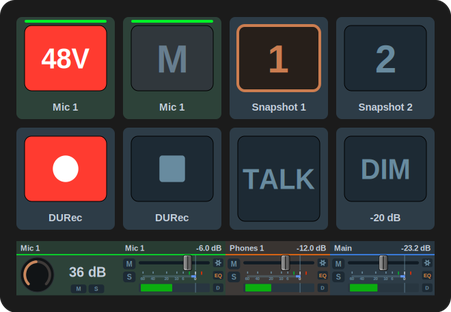
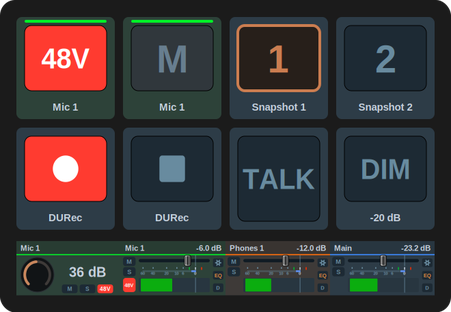
v5.4.0

Changed region(s): [[0.1242, 0.8077, 0.4656, 0.9519], [0.4967, 0.8077, 0.6829, 0.9231], [0.745, 0.8077, 0.9313, 0.9231]]

diff --git a/docs/global-osc/volume.md b/docs/global-osc/volume.md
@@ -33,6 +33,14 @@ Main Out and Speaker B press to mute (fader to −∞) and touch to dim. A Phone
 
 In TotalMix an input strip's fader is its send into the submix currently selected in the window, so over Global OSC these levels live on the mix matrix, one per output. A *Channel fader* on an input or playback channel therefore has a *Submix* picker. *Main Out (auto)* follows the Main Out assignment. *Control room monitor (auto)* also follows the Speaker B switch. Or pin any output's submix. The fader you see in the TotalMix window only moves while that submix is selected there; the audio changes either way. Output channels have one real fader and no picker.
 
+#### Seeing which submix a control is on
+
+With the submix automatic, or with several dials on the same channel into different submixes, the strip alone does not say where a fader goes. Two options show it, both for input and playback controls only, since an output is a submix rather than feeding one.
+
+*Show the submix (3 s)* is a gesture: on a dial under *On press* and *On touch*, on a key under *Key press* and *Hold the key*. It replaces the strip's body with the name of the output the control feeds, marked in that output's TotalMix colour, while the header keeps the channel name and the readout. It goes away after 3 seconds or on the next press. A second press of the same gesture only takes it down; any other press, touch, hold or turn of the dial takes it down and then does what it normally does, so nothing is swallowed. It writes nothing to TotalMix. With the icon look the dial's text fields, or the key's title, name the submix for the same 3 seconds.
+
+*Submix label* keeps the name on a dial's fader strip permanently. *Below the name* adds a second header line: both names stay whole and the readout keeps its size, and in exchange the body is 12 px shorter, so the pills, lamps and meter are flatter while the fader keeps its full travel. *Beside the name* writes "Mic 1 › Main" on the one header line and leaves the body alone; the pair shares the name's width, so longer names shrink to a 10 px font and the submix is cut first ("Chat<-Loop › Win -…"). Off by default. Keys have no label, because their header has room for the name only; use the gesture there. A *Submix send* target, whose name normally reads "source → output", shows the source alone while the label is on.
+
 *Submix linked to OSC Controller* in TotalMix's Options menu (RME's protocol notes call it "Follow Submix") should be off for the Global OSC Remote Controller: left on, a controller restricted to one submix holds the TotalMix window on that submix. TotalMix FX 2.1 beta 6 and later ignore the option for a Global OSC controller.
 
 ### Channels
@@ -63,13 +71,15 @@ With the [TotalMix look](../appearance.md) a level draws a fader strip with mete
 
 Playback channels have the gear alone. The lamps are read-only, so a key that only needs to *see* EQ and dynamics state no longer needs a Toggle key each.
 
-Output strips carry a fourth lamp, **REQ**, lit while that output's Room EQ is on. TotalMix does not draw one; the section's state is otherwise only visible inside the settings panel.
+Output strips also show Room EQ: an orange **REQ** tag in the header while that output's Room EQ is on, and nothing while it is off. On a display it sits in the middle, between the name at the left and the readout at the right; on a key, where the header holds only the name, it sits left of it. TotalMix does not draw one; the section's state is otherwise only visible inside the settings panel. The tag belongs to the FX lamps and goes with them when they are switched off.
 
 *Mute look* (fader targets only; gain and pan knobs have no mute treatment) decides how a cut strip is drawn: *Subtle* lights the M pill blue, as TotalMix does. *Red badge* lights the same pill red. *Red badge and cross* adds a red cross over the strip. *Red badge and cast* adds a translucent red below the header band instead. *Red cast and cross* has both.
 
 A submix send has no mute in Global OSC, so a send at the bottom of its throw counts as cut too: the pill reads `-oo` and takes whichever treatment is set. Every step can be chosen per button, or for new buttons under *Defaults for new buttons*.
 
 *Mute / Solo* draws the M and S pills. Both are on by default, and either one switched off hands its room to the fader: on a display the travel grows towards that edge, on a key the strip grows into the space the pills held. Without the pills the strip shows no mute or solo state at all.
+
+*48V / Inst* draws a **48V** and an **INST** pill for a channel fader, input gain or pan that points at an input with those switches: under M and S on a display, beside them on a key, and as extra badges under a knob. 48V is red while phantom power is on, INST blue while the instrument (Hi-Z) input is on, the colours of the matching Toggle keys; both are unlit while off. TotalMix only reports a switch for inputs that have it (on a Fireface UCX II, 48V on inputs 1 and 2 and Inst on 3 and 4), so every other channel shows no pill at all and nothing has to be configured per interface. The *48V / Inst* checkbox itself only appears in the settings panel while the selected channel has one of the switches; that needs a connection to TotalMix, and it shows up a moment after a channel is picked. On a display the pills sit in the M/S column: one pill takes the slot level with the meter, and on an input with both switches the four pills share the column at a smaller size. With *Mute / Solo* switched off the column stays for the pills alone; switch both off to give the fader the full width. The pills are read-only: assign *Phantom power (48V)* to *On press* or *On touch* to switch 48V from the same dial, or use a Toggle key for either.
 
 ## Notes
 

diff --git a/docs/appearance.md b/docs/appearance.md
@@ -10,7 +10,7 @@ Keys and Stream Deck+ displays are drawn by the plugin on every change, in colou
 
 ![Strip anatomy](images/v5_strip_anatomy.png)
 
-**Fader strips** for levels: channel name, M and S pills, the meter, RME's scale with 0 dB marked and the +3 and −3 ticks coloured as in the mixer, the cap on the real fader curve, and the readout in dB. *Meter*, *FX lamps* and *Mute / Solo* each switch off their own column, and the fader takes the room they leave. The classic Levels action draws no meter, because that protocol only reports levels for the visible bank.
+**Fader strips** for levels: channel name, M and S pills, 48V and INST pills on inputs that have those switches (Global OSC), the meter, RME's scale with 0 dB marked and the +3 and −3 ticks coloured as in the mixer, the cap on the real fader curve, and the readout in dB, signed from ±0.1 dB and unsigned at 0.0 dB. *Meter*, *FX lamps* and *Mute / Solo* each switch off their own column, and the fader takes the room they leave. The classic Levels action draws no meter, because that protocol only reports levels for the visible bank.
 
 **Knobs** for preamp gain, pan and effect parameters, drawn like TotalMix's: a dark disc with the arc on its edge, orange by default, yellow on a pan knob's left half, and the section's colour for EQ bands, dynamics and low cut. **Dropdown boxes** for list parameters. **Buttons** for toggles and triggers: mute and solo keys take TotalMix's M/S look, letter and outline in the state colour on a dark face; snapshot keys its active-snapshot look, orange number and outline; otherwise blue for mute-type switches, orange for solo, PFL and talkback, red for 48V and record, orange text for the effect sections. **Panels** for the Display action, including the EQ and dynamics curves and the gain-reduction needle.
 
@@ -24,7 +24,7 @@ Peak level with a hold line, held for the *Peak hold* time (TotalMix's 2 s by de
 
 ![Meters](images/v5_meters.png)
 
-On a Stream Deck+ display the meter shares the fader's own range and dB mapping, so a level reads directly against the scale below the fader. M and S stack in a column at the left, the FX lamps at the right.
+On a Stream Deck+ display the meter shares the fader's own range and dB mapping, so a level reads directly against the scale below the fader. M and S stack in a column at the left, with 48V and INST under them on inputs that have those switches; the FX lamps sit at the right.
 
 ### Channel colours
 

diff --git a/docs/global-osc/display.md b/docs/global-osc/display.md
@@ -21,7 +21,7 @@ Read-only status over Global OSC, on a key or a dial. Nothing is written; a pres
 | Dynamics values | The same section as numbers: thresholds, ratios, make-up gain, attack and release | Bus, Channel |
 | Dynamics gain reduction | A needle meter of the section's gain reduction, 0 dB at the right stop to 20 dB at the left, with the value beneath | Bus, Channel, *Send Level Messages* |
 
-The level view carries the same *FX lamps* and *Mute / Solo* checkboxes as a [Volume strip](volume.md), for the channel it meters, and both are on by default. The S pill here is the channel's PFL state, not the mix-node solo a Volume strip shows. On a key the two pills pair up on one row when the lamps share the column with them, and with both switched off the meter itself widens into the space; on a Stream Deck+ display the meter takes back whichever column is off.
+The level view carries the same *FX lamps* and *Mute / Solo* checkboxes as a [Volume strip](volume.md), for the channel it meters, and both are on by default. The S pill here is the channel's PFL state, not the mix-node solo a Volume strip shows. On an input with a 48V or Inst switch it also shows the Volume strip's **48V** and **INST** pills, red and blue while on, unlit while off, and absent on every other channel; the *48V / Inst* checkbox that switches them off only appears for such a channel. On a Stream Deck+ display they sit under S in the left column. On a key they sit at the ends of the readout band, 48V left and INST right, because the right-hand column is already full with M, S and the lamps. On a key the two pills pair up on one row when the lamps share the column with them, and with both switched off the meter itself widens into the space; on a Stream Deck+ display the meter takes back whichever column is off.
 
 Status data arrives about once a second from TotalMix. Views carrying a level, meaning the meter, the dynamics curve and the gain-reduction needle, repaint at most ten times a second.
 

diff --git a/docs/dials-and-gestures.md b/docs/dials-and-gestures.md
@@ -20,7 +20,9 @@ Every level or parameter action also works on a regular key. Under *Key press* (
 
 *Next channel* and *Previous channel* are both a key press mode and a dial press or touch gesture. They step the button along a list of channels set under *Advanced: channel cycling*, so four dials can cover sixteen channels. Name a group there and every button using that name steps together, which turns a row of dials into one channel strip. Without a group the channel is stored on the button, so it comes back where you left it. On a dial the target has to be Channel, Input gain or Pan; Main Out and the other control-room targets have no channel to step, so the gesture is not offered there.
 
-*Alt function* swaps the dial to a second target (Channel level, Input gain or Pan) on the same channel; the same gesture swaps back. The alternate behaves as the dedicated button would and is named on the knob caption or the strip header. Not saved: a page change, an edit or a restart returns the dial to its own target.
+*Alt function* swaps the dial to a second target (Channel level, Input gain or Pan) on the same channel; the same gesture swaps back. The alternate behaves as the dedicated button would; a gain or pan alternate is named in the knob's caption. Not saved: a page change, an edit or a restart returns the dial to its own target.
+
+*Show the submix (3 s)* (Global OSC, input and playback controls) names the submix the control feeds for 3 seconds or until the next press, and writes nothing; see [Volume (TotalMix 2.1+)](global-osc/volume.md#seeing-which-submix-a-control-is-on).
 
 On Input gain, *Set to −∞* drops the preamp to 0 dB and a second press restores it. The ceiling comes from the detected interface.
 

diff --git a/docs/changelog.md b/docs/changelog.md
@@ -2,7 +2,25 @@
 
 # Changelog
 
-## [5.3.2] - 2026-09-22
+## [5.4.0] - 2026-09-29
+
+### Added
+- 48V and INST pills on Global OSC Volume strips and knobs ([#72](https://github.com/shells-dw/streamdeck-totalmix/issues/72)), switchable via *48V / Inst*.
+- 48V and INST pills on the Display level view.
+- *Show the submix (3 s)* gesture on Global OSC Volume.
+- *Submix label* on Global OSC Volume dials, below or beside the name.
+
+### Changed
+- dB readouts: `+` and `-` from ±0.1 dB, `0.0 dB` without a sign.
+- Stream Deck+ fader strip redesign: smaller fader cap, taller meter.
+- REQ moved from the FX lamp column into the header, shown only while Room EQ is on to make it more obvious.
+- Documentation images redrawn to reflect the visual changes.
+
+### Fixed
+- Dial settings panel reset the mute look *Red cast and cross* to *Red badge and cast*.
+- *Set value* for input gain ignored the detected interface's gain ceiling.
+
+## [5.3.2] - 2026-09-18
 
 ### Changed
 - Setup and Volume docs: *Submix linked to OSC Controller* applies to the classic controller only.. TotalMix FX 2.1 beta 6 ignores it for Global OSC.

diff --git a/docs/classic/levels.md b/docs/classic/levels.md
@@ -2,7 +2,7 @@
 
 # Levels & Parameters (classic)
 
-Levels, pan, preamp gain and effect parameters over classic OSC (TotalMix FX 1.96 to 2.0; also works on 2.1 in classic mode). Key or Stream Deck+ dial. Drawn in the [TotalMix look](../appearance.md): fader strips, knobs and dropdown boxes, with TotalMix's own readout strings as the value.
+Levels, pan, preamp gain and effect parameters over classic OSC (TotalMix FX 1.96 to 2.0; also works on 2.1 in classic mode). Key or Stream Deck+ dial. Drawn in the [TotalMix look](../appearance.md): fader strips, knobs and dropdown boxes, with TotalMix's own readout strings as the value. dB readouts carry a sign from ±0.1 dB and none at 0.0 dB, whichever way TotalMix writes it.
 
 ## Target
 
